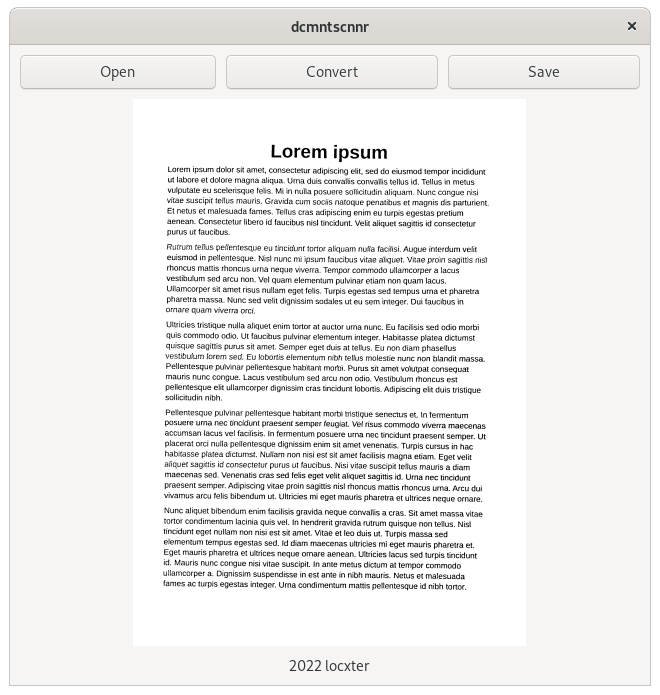
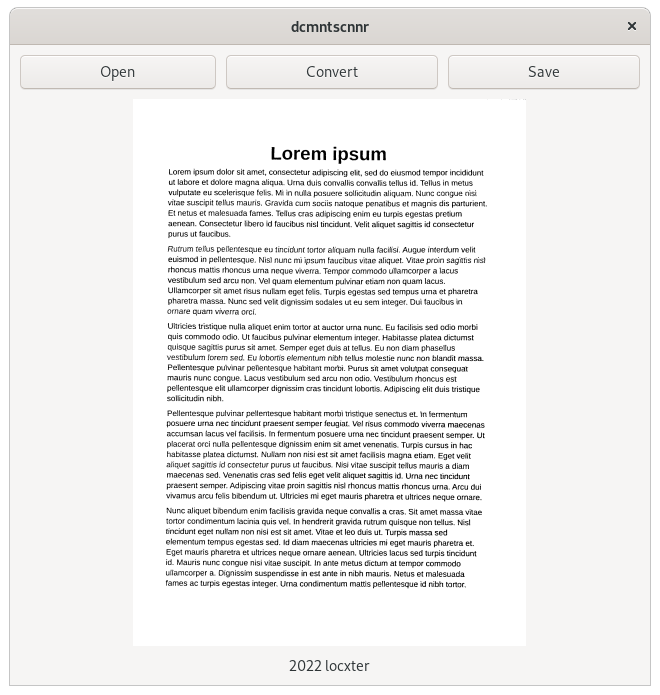
Minor changes.

Changed region(s): [[0.2424, 0.2115, 0.7576, 0.846]]

diff --git a/main.cpp b/main.cpp
@@ -111,10 +111,10 @@ int main(int argc, char** argv) {
             // Calculate utility values for perspective transform
             topWidth = std::sqrt(std::pow(sortedApproximation[1].x - sortedApproximation[0].x, 2) + std::pow(sortedApproximation[1].y - sortedApproximation[0].y, 2));
             bottomWidth = std::sqrt(std::pow(sortedApproximation[2].x - sortedApproximation[3].x, 2) + std::pow(sortedApproximation[2].y - sortedApproximation[3].y, 2));
-            width = (topWidth + bottomWidth) / 2.0;
+            width = std::max(topWidth, bottomWidth);
             leftHeight = std::sqrt(std::pow(sortedApproximation[3].x - sortedApproximation[0].x, 2) + std::pow(sortedApproximation[3].y - sortedApproximation[0].y, 2));
             rightHeight = std::sqrt(std::pow(sortedApproximation[2].x - sortedApproximation[1].x, 2) + std::pow(sortedApproximation[2].y - sortedApproximation[1].y, 2));
-            height = (leftHeight + rightHeight) / 2.0;
+            height = std::max(leftHeight, rightHeight);
             sourceCoordinates[0] = cv::Point2f(sortedApproximation[0].x, sortedApproximation[0].y);
             sourceCoordinates[1] = cv::Point2f(sortedApproximation[1].x, sortedApproximation[1].y);
             sourceCoordinates[2] = cv::Point2f(sortedApproximation[2].x, sortedApproximation[2].y);
